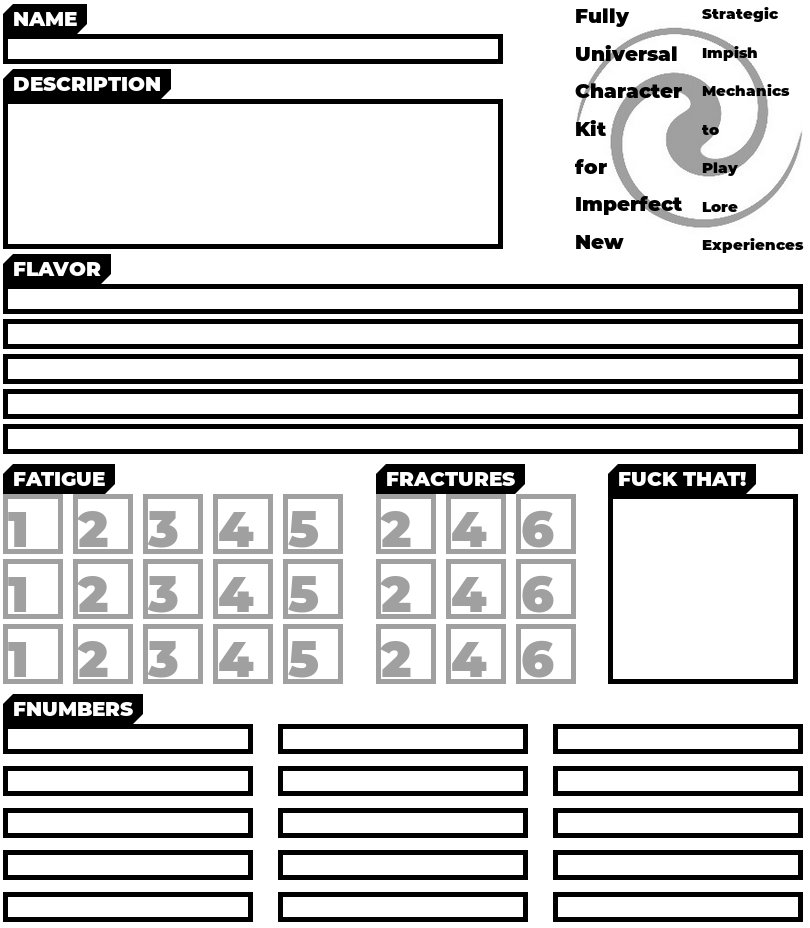
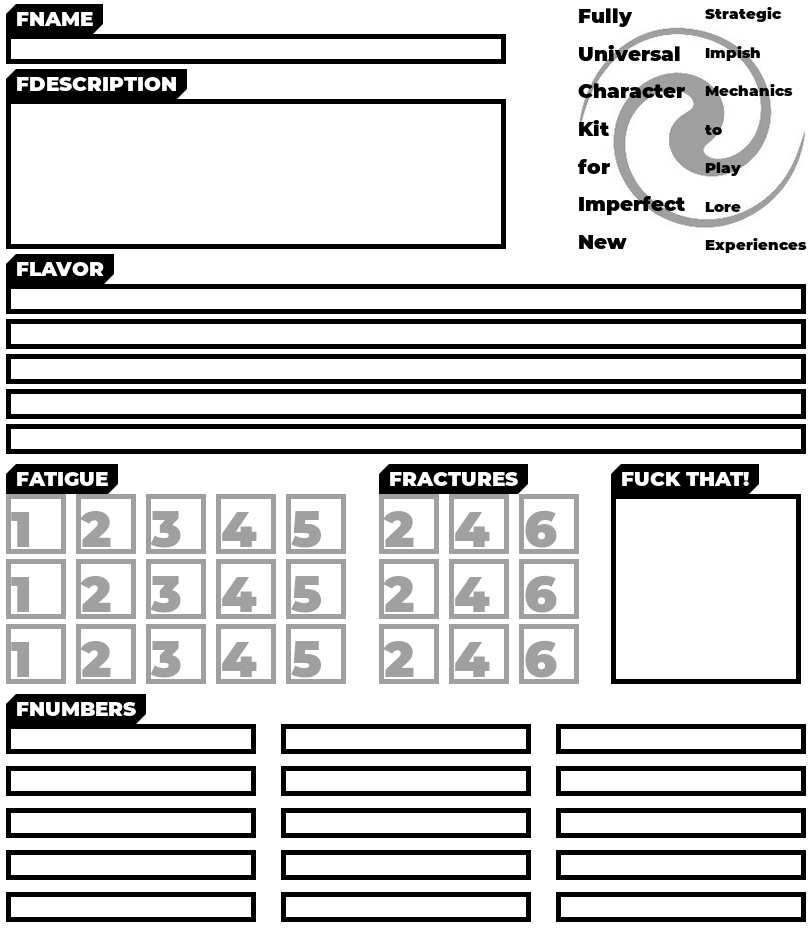
Fix non-F words.

diff --git a/fs-pc-sheet.html b/fs-pc-sheet.html
@@ -39,7 +39,7 @@
         <div class="label-and-thing">
             <div class="label cut-corner-container">
                 <div class="cut-corner-top-left"></div>
-                <div class="label-text">name</div>
+                <div class="label-text">fname</div>
                 <div class="cut-corner-bottom-right"></div>
             </div>
             <div class="name"></div>
@@ -47,7 +47,7 @@
         <div class="label-and-thing">
             <div class="label cut-corner-container">
                 <div class="cut-corner-top-left"></div>
-                <div class="label-text">description</div>
+                <div class="label-text">fdescription</div>
                 <div class="cut-corner-bottom-right"></div>
             </div>
             <div class="description"></div>
